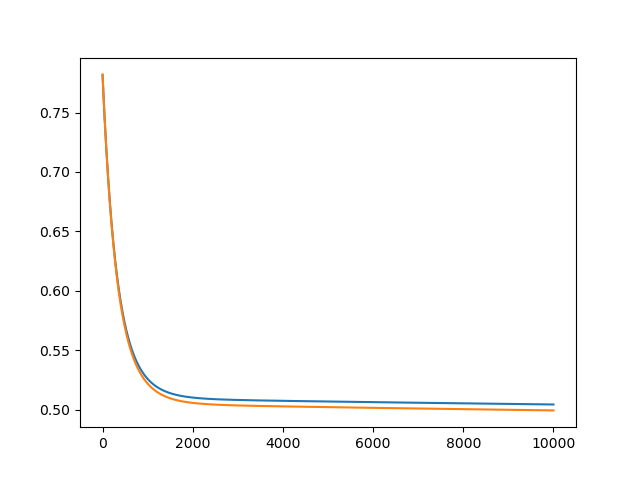
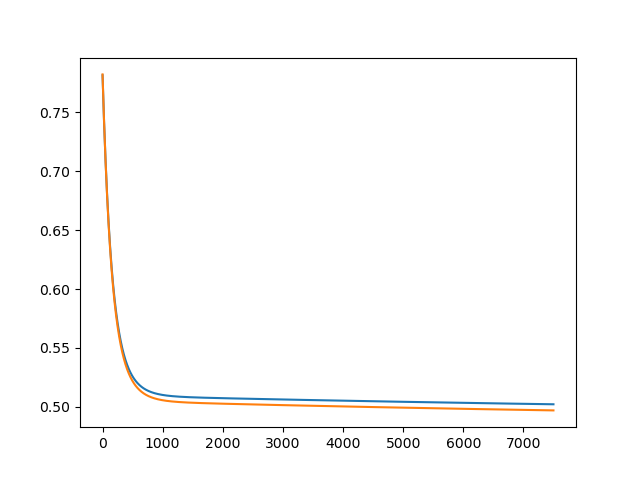
lo último de hoy

diff --git a/scripts/logit.py b/scripts/logit.py
@@ -15,7 +15,7 @@ class Logit:
       np.dot(X, theta.T)
       
       ''' 
-      def __init__(self, X, y, alpha=.005):
+      def __init__(self, X, y, alpha=.01):
             self.X = self.add_ordinate(X)
             self.y = y
             self.theta = np.random.rand(X.shape[1]+1).reshape(1, -1)
@@ -45,7 +45,7 @@ class Logit:
             p = self.forward()
             return -np.mean(self.y*np.log(p) + (1-self.y)*np.log(1-p))
 
-      def train(self, tol=1e-5, max_iter=10000):
+      def train(self, tol=1e-2, max_iter=7500):
             iters = 0
             loss = np.Inf
             #print(iters)

diff --git a/scripts/muestreo.py b/scripts/muestreo.py
@@ -148,7 +148,7 @@ def parallel_train(bootstrap_sample_5, num_processes):
 bootstrap_sample_5 = [sample5.sample(n=len(sample5), replace=True) for _ in range(100)]
 
 # Train the models using 2 processes
-results = parallel_train(bootstrap_sample_5, 7)
+results = parallel_train(bootstrap_sample_5, 5)
 
 # Print the results
 print(results)
